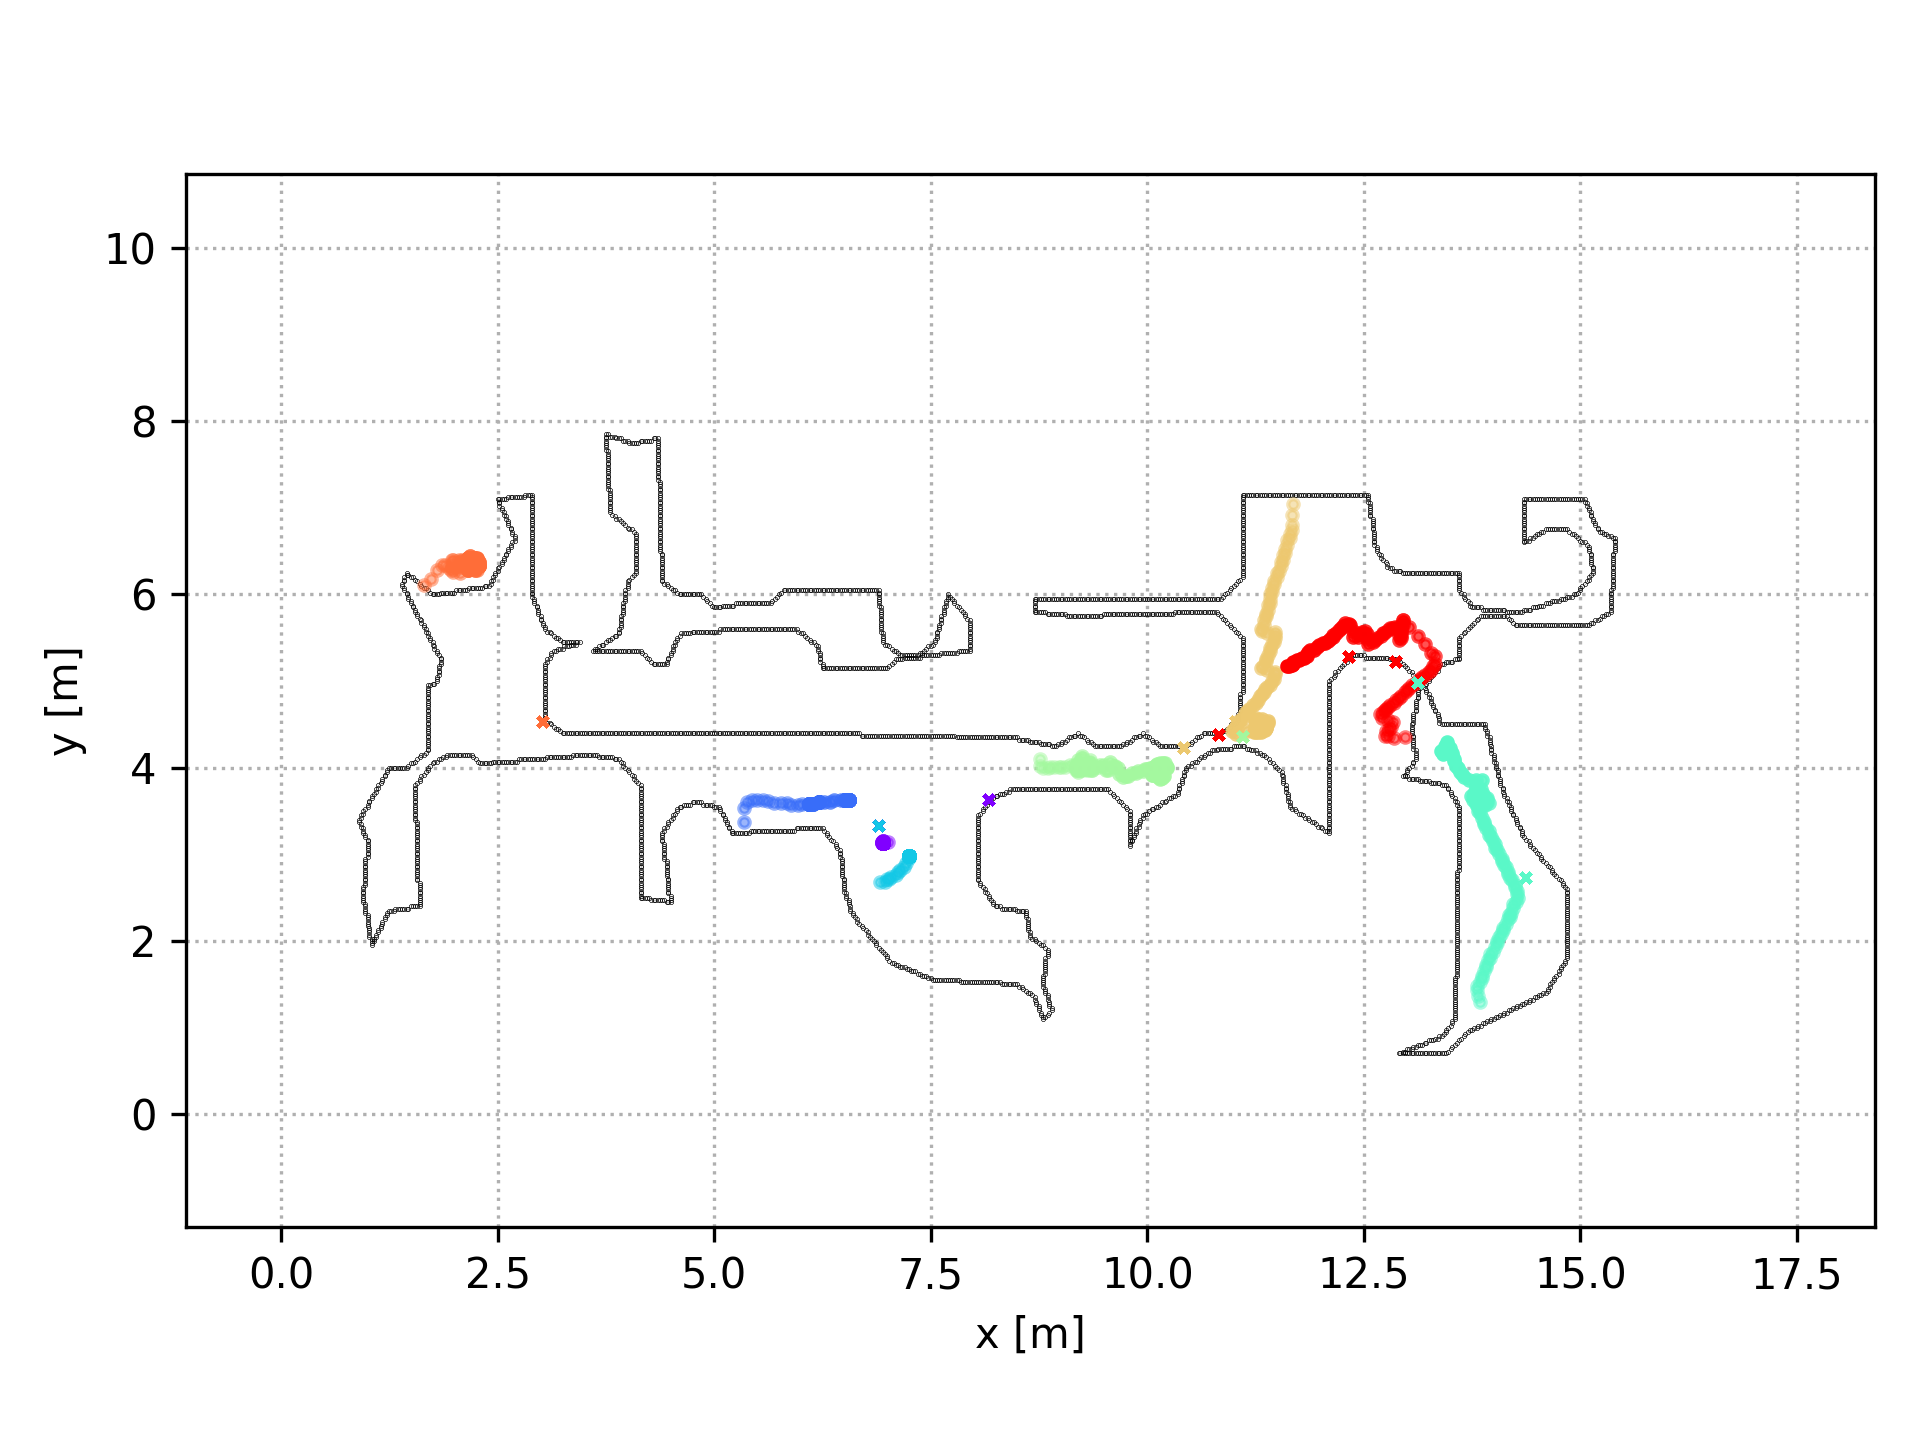
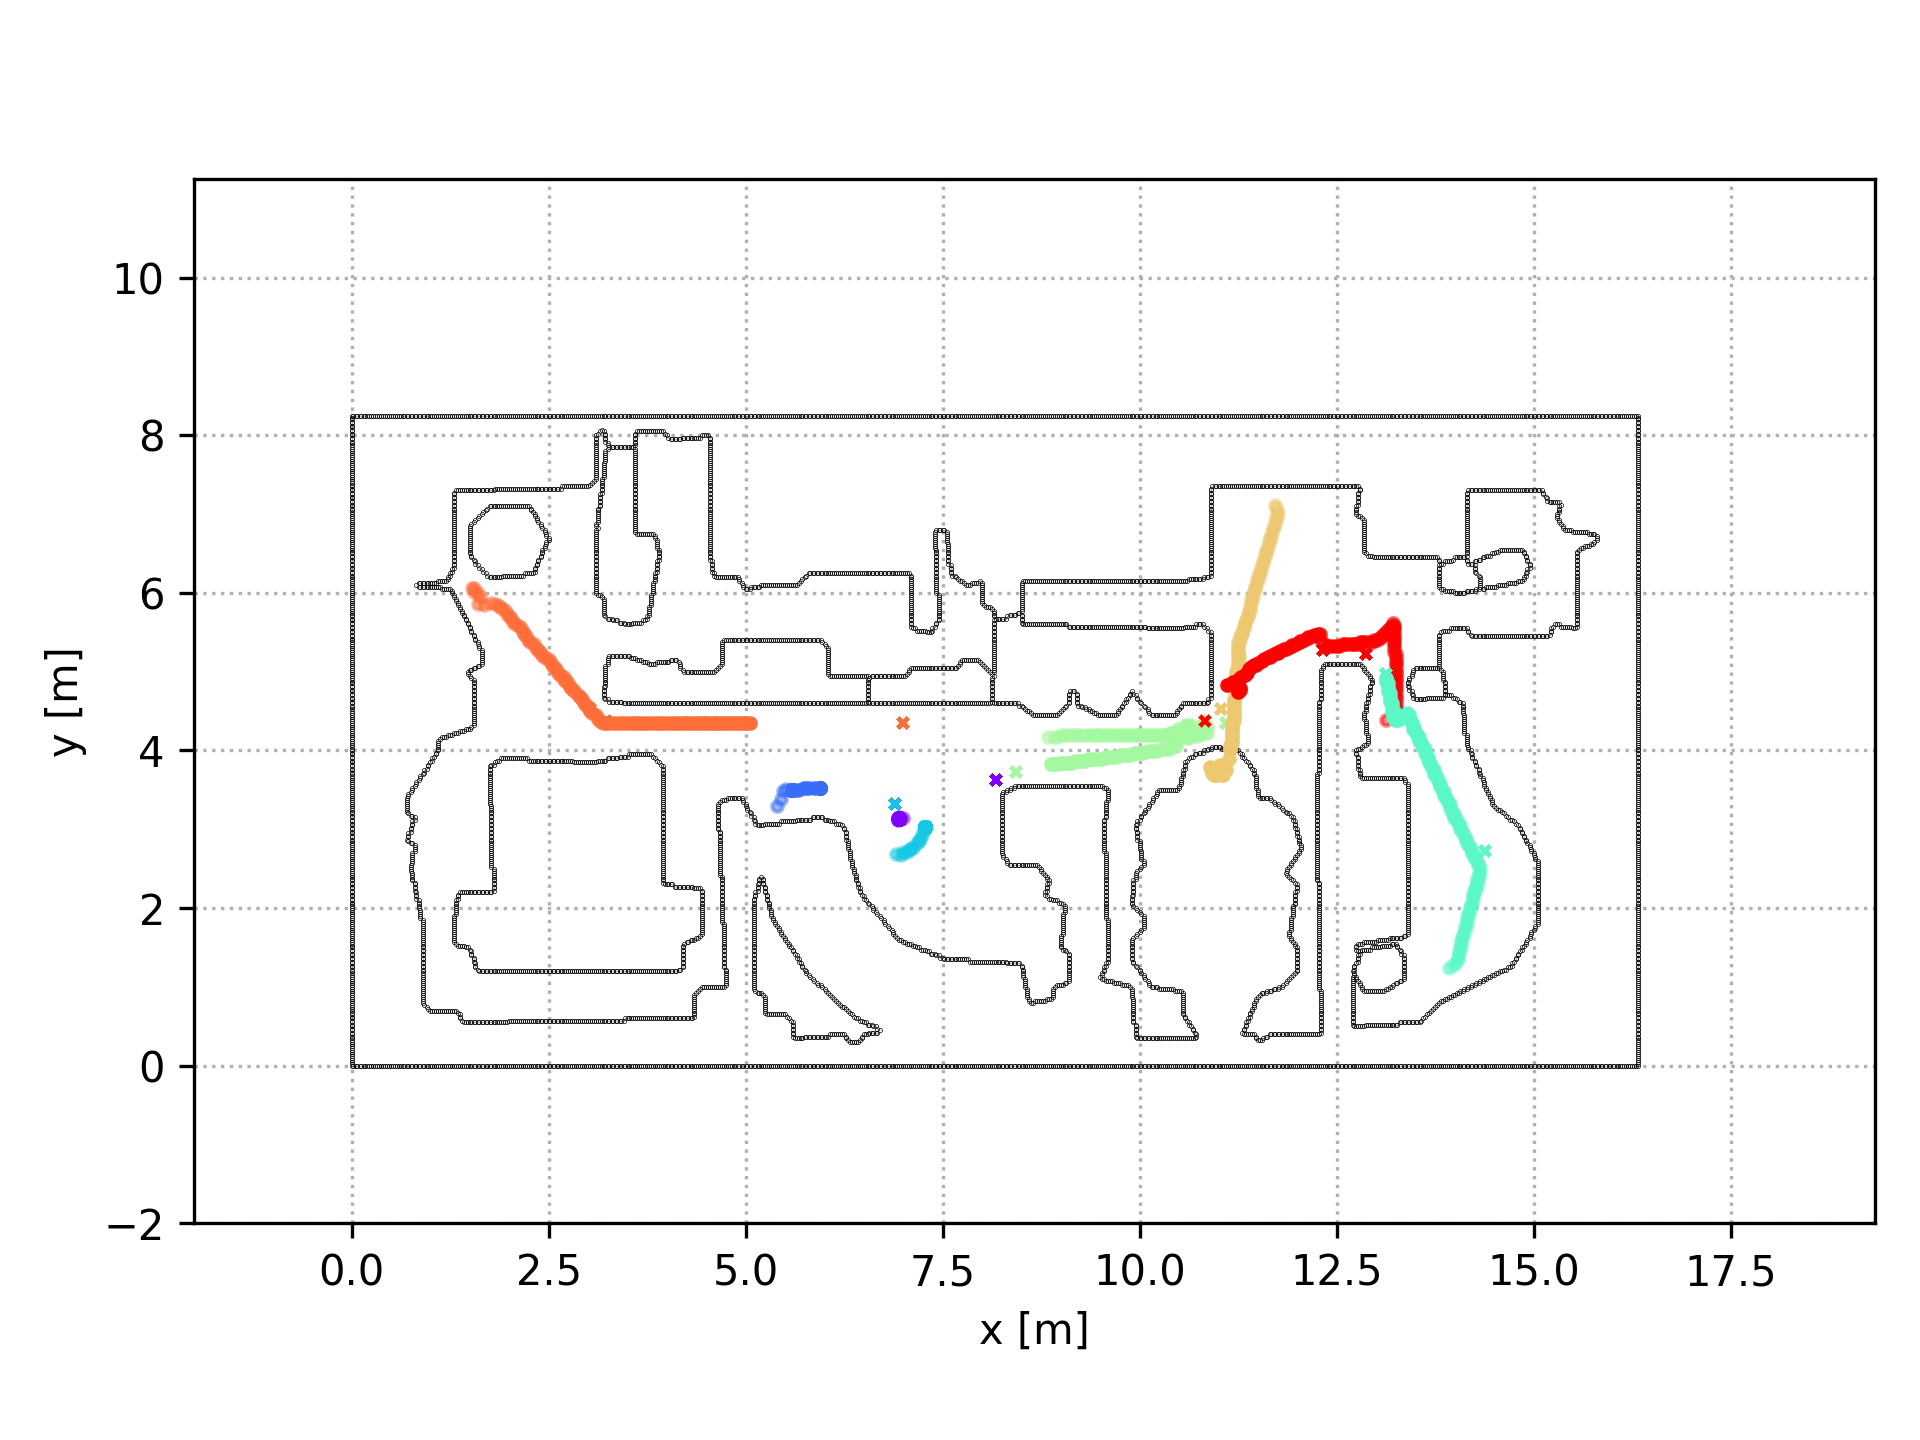
Got new map

diff --git a/scripts/get_topdown_map_old.py b/scripts/get_topdown_map_old.py
@@ -1,11 +1,3 @@
-#!/usr/bin/env python3
-
-# Copyright (c) Facebook, Inc. and its affiliates.
-# This source code is licensed under the MIT license found in the
-# LICENSE file in the root directory of this source tree.
-
-#This script geneartes a ros/rviz compatible map based on the specified Habitat scene's top-down map
-
 import os
 
 import imageio
@@ -14,10 +6,9 @@ import yaml
 import habitat
 from habitat.tasks.nav.nav import NavigationEpisode, NavigationGoal
 from habitat.utils.visualizations import maps
-from IPython import embed
+# from habitat.utils.visualizations.maps import COORDINATE_MIN, COORDINATE_MAX
 from typing import TYPE_CHECKING, Union, cast
 
-# from habitat.utils.visualizations.maps import COORDINATE_MIN, COORDINATE_MAX
 import argparse
 PARSER = argparse.ArgumentParser(description=None)
 PARSER.add_argument('-s', '--scene', default="17DRP5sb8fy", type=str, help='scene')
@@ -39,11 +30,10 @@ def get_topdown_map(config_paths, map_name):
     )
     env = habitat.Env(config=config, dataset=dataset)
     env.reset()
-    
 
-    
+    meters_per_pixel =0.025
     hablab_topdown_map = maps.get_topdown_map_from_sim(
-            cast("HabitatSim", env.sim), meters_per_pixel = meters_per_pixel
+            cast("HabitatSim", env.sim), meters_per_pixel= meters_per_pixel
         )
     recolor_map = np.array(
         [[128, 128, 128], [255, 255, 255], [0, 0, 0]], dtype=np.uint8
@@ -52,15 +42,12 @@ def get_topdown_map(config_paths, map_name):
     square_map_resolution = 5000
     map_resolution = [5000,5000]
     top_down_map = hablab_topdown_map
-    grid_dimensions = (top_down_map.shape[0]*meters_per_pixel, top_down_map.shape[1]*meters_per_pixel)
-    
-    # top_down_map = maps.get_topdown_map(pathfinder = env._sim.pathfinder, map_resolution=(square_map_resolution,square_map_resolution), height = 0.0)
 
-    # # Image containing 0 if occupied, 1 if unoccupied, and 2 if border (if
-    # # the flag is set)
-    # top_down_map[np.where(top_down_map == 0)] = 125
-    # top_down_map[np.where(top_down_map == 1)] = 255
-    # top_down_map[np.where(top_down_map == 2)] = 0
+    # Image containing 0 if occupied, 1 if unoccupied, and 2 if border (if
+    # the flag is set)
+    top_down_map[np.where(top_down_map == 0)] = 125
+    top_down_map[np.where(top_down_map == 1)] = 255
+    top_down_map[np.where(top_down_map == 2)] = 0
     imageio.imsave(os.path.join(MAP_DIR, map_name + ".pgm"), hablab_topdown_map)
     print("writing Yaml file! ")
     complete_name = os.path.join(MAP_DIR, map_name + ".yaml")
@@ -68,24 +55,25 @@ def get_topdown_map(config_paths, map_name):
 
     f.write("image: " + map_name + ".pgm\n")
     f.write("resolution: " + str(meters_per_pixel) + "\n")
-    f.write("origin: [" + str(-1) + "," + str(-grid_dimensions[0]+1) + ", 0.000000]\n")
+    f.write("origin: [" + str(-1) + "," + str(-1) + ", 0.000000]\n")
     f.write("negate: 0\noccupied_thresh: 0.65\nfree_thresh: 0.196")
     f.close()
 
 
 def main():
-    config = {}
-    with open("configs/tasks/nav_to_obj_copy.yml",'r') as file:
+    with open("configs/tasks/pointnav_rgbd.yaml",'r') as file:
         # The FullLoader parameter handles the conversion from YAML
         # scalar values to Python the dictionary format
         config = yaml.load(file, Loader=yaml.FullLoader)
-        config['DATASET']['DATA_PATH'] = "./data/datasets/rearrange/mp3d/v1/test/content/"+scene+"0.json.gz"
-    with open("configs/tasks/custom_rearrange.yml",'w') as file:
+        config['DATASET']['DATA_PATH'] = "./data/datasets/pointnav/mp3d/v1/test/content/"+scene+"0.json.gz"
+    with open("configs/tasks/pointnav_rgbd.yaml",'w') as file:
         print("Replacing the data config to the new scene ", scene)
         documents = yaml.dump(config, file)
     #first parameter is config path, second parameter is map name
-    # if (not os.path.isfile("./maps/resolution_"+scene+"_"+str(meters_per_pixel)+".pgm")): 
-    #     get_topdown_map("configs/tasks/custom_rearrange.yml", "resolution_"+scene+"_"+str(meters_per_pixel))
+    if (not os.path.isfile("./maps/resolution_"+scene+"_"+str(meters_per_pixel)+".pgm")): 
+        get_topdown_map("configs/tasks/pointnav_rgbd.yaml", "resolution_"+scene+"_"+str(meters_per_pixel))
+
+
 
 if __name__ == "__main__":
     main()

diff --git a/scripts/creating_episodes.py b/scripts/creating_episodes.py
@@ -15,13 +15,17 @@ import tqdm
 import habitat
 import habitat_sim
 from habitat.datasets.pointnav.pointnav_generator import generate_pointnav_episode
-
+import argparse
+PARSER = argparse.ArgumentParser(description=None)
+PARSER.add_argument('-s', '--scene', default="17DRP5sb8fy", type=str, help='scene')
+ARGS = PARSER.parse_args()
+scene = ARGS.scene
 num_episodes_per_scene = 1
 
-def _generate_fn(scene):
+def _generate_fn():
     cfg = habitat.get_config()
     cfg.defrost()
-    cfg.SIMULATOR.SCENE = scene
+    cfg.SIMULATOR.SCENE = "data/scene_datasets/mp3d/"+scene+"/"+scene+".glb"
     cfg.SIMULATOR.AGENT_0.SENSORS = []
     cfg.freeze()
 
@@ -33,13 +37,13 @@ def _generate_fn(scene):
             sim, num_episodes_per_scene, is_gen_shortest_path=False
         )
     )
-    count_episodes = 50;
+    count_episodes = 0
     
     for ep in dset.episodes:
-        ep.scene_id = "data/scene_datasets/mp3d/Vt2qJdWjCF2/Vt2qJdWjCF2.glb"
+        ep.scene_id = "data/scene_datasets/mp3d/"+scene+"/"+scene+".glb"
     print(dset.episodes)
     scene_key = osp.basename(osp.dirname(osp.dirname(scene)))
-    out_file = f"./data/datasets/pointnav/mp3d/v1/test/content/Vt2qJdWjCF2" + str(count_episodes)+".json.gz"
+    out_file = f"./data/datasets/pointnav/mp3d/v1/test/content/"+scene + str(count_episodes)+".json.gz"
     os.makedirs(osp.dirname(out_file), exist_ok=True)
     with gzip.open(out_file, "wt") as f:
         f.write(dset.to_json())
@@ -54,4 +58,4 @@ def _generate_fn(scene):
 #     json.dump(dict(episodes=[]), f)
 
 if __name__ == "__main__":
-	_generate_fn("data/scene_datasets/mp3d/Vt2qJdWjCF2/Vt2qJdWjCF2.glb")
+	_generate_fn()

diff --git a/scripts/run_new_scene.py b/scripts/run_new_scene.py
@@ -15,8 +15,11 @@ elif dataset == "hm3d":
         __ = os.system('python ./scripts/rearrangement_episode_hm3d.py --scene '+ scene)
 else:
     if (not os.path.isfile("./data/datasets/pointnav/mp3d/v1/test/content/"+scene+"0.json.gz")):     
+        __ = os.system('python ./scripts/creating_episodes.py --scene '+ scene)
+    if (not os.path.isfile("./data/datasets/rearrange/mp3d/v1/test/content/"+scene+"0.json.gz")):     
         __ = os.system('python ./scripts/rearrangement_episode.py --scene '+ scene)
-
+__ = os.system('python ./scripts/get_topdown_map_old.py --scene '+ scene + ' --mps 0.025')
+# __ = os.system('python ./scripts/get_topdown_map_old.py --scene '+ scene + ' --mps 0.025')
 __ = os.system('python ./scripts/get_topdown_map.py --scene '+ scene + ' --mps 0.025')
 # __ = os.system('python ./scripts/follower_and_robot.py --scene '+ scene)
 __ = os.system('python ./scripts/all_humans.py --scene '+ scene)

diff --git a/scripts/rearrangement_episode.py b/scripts/rearrangement_episode.py
@@ -23,7 +23,7 @@ def example():
 
     with habitat.Env(
         config=habitat.get_config(
-            "configs/tasks/rearrange/nav_to_obj.yaml"
+            "configs/tasks/rearrange/play.yaml"
         )
     ) as env:
         print("Environment creation successful")
@@ -51,7 +51,7 @@ def example():
         # env.episodes[0].targets = []
         rearrange_dataset = RearrangeDatasetV0()
         rearrange_dataset.episodes = [env.episodes[0]]
-        out_file = f"/home/catkin_ws/src/habitat_ros_interface/data/datasets/pointnav/mp3d/v1/test/content/"+scene+"0.json.gz"
+        out_file = f"/home/catkin_ws/src/habitat_ros_interface/data/datasets/rearrange/mp3d/v1/test/content/"+scene+"0.json.gz"
         os.makedirs(osp.dirname(out_file), exist_ok=True)
         with gzip.open(out_file, "wt") as f:
             f.write(rearrange_dataset.to_json())
